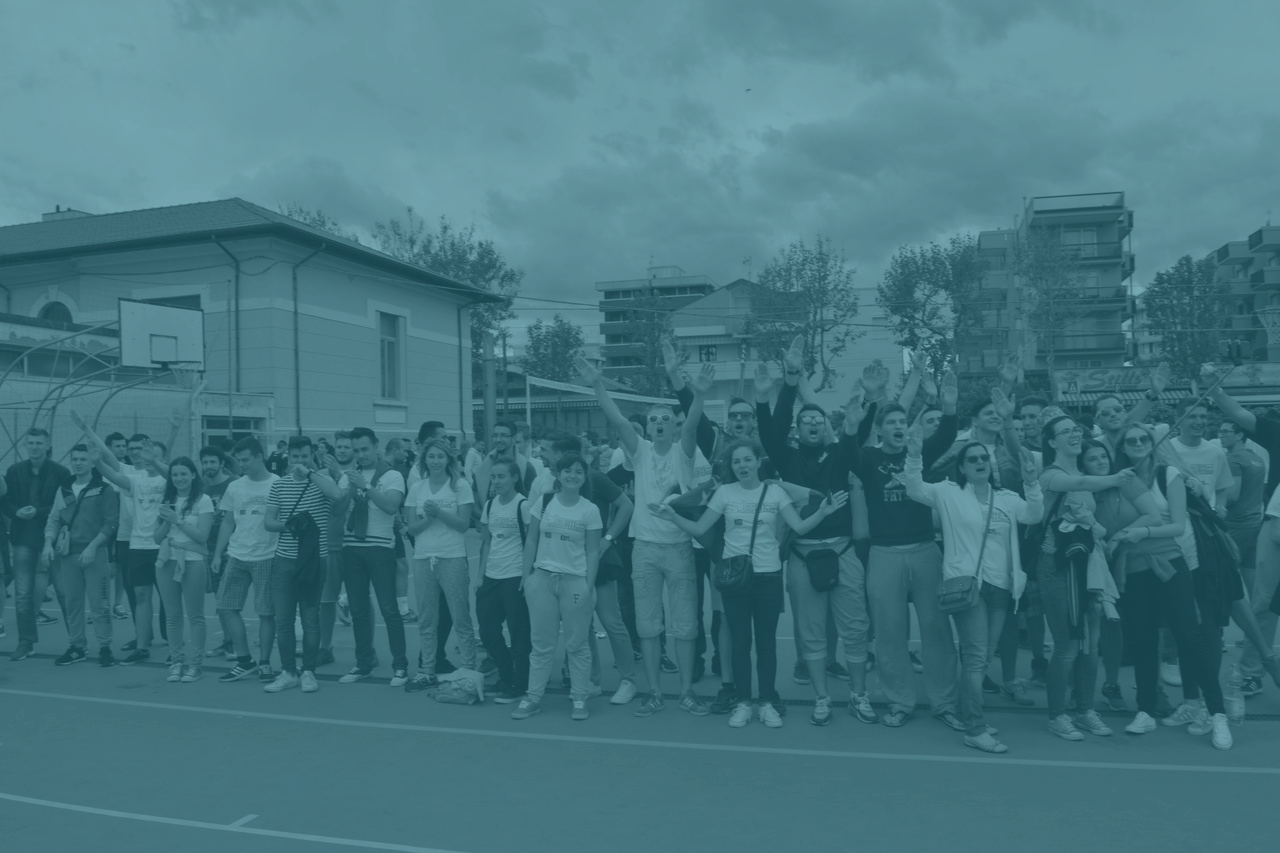
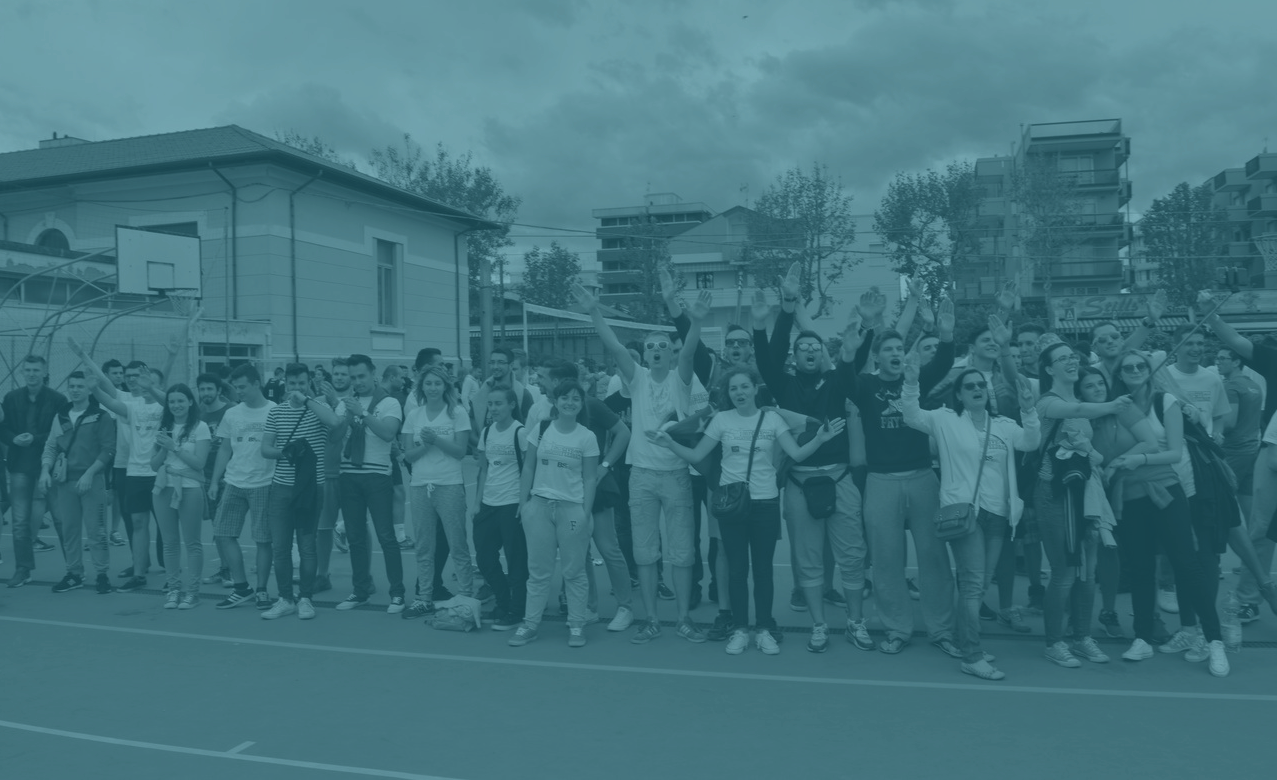
popravka vijesti

diff --git a/src/app/components/newspage/newspage.component.css b/src/app/components/newspage/newspage.component.css
@@ -8,11 +8,7 @@ div.vijesti-screen {
   padding: 99px;
   padding-top: 40px;
 }
-@media only screen and (max-width: 1367px){
-  div.vijesti-screen{
-    min-width: 0;
-  }
-}
+
 
 figure.vijest {
   font-family: 'Roboto', sans-serif;
@@ -132,9 +128,9 @@ figure.vijest:hover button {
 
 
 .picture{
-min-height: 495px;
-background-image: url('../../assets/images/vijesti.png');
 
+background-image: url('../../assets/images/vijesti.png');
+  min-height: 495px;
   background-repeat: no-repeat;
   background-size: cover;
   background-attachment: fixed;
@@ -143,7 +139,7 @@ background-image: url('../../assets/images/vijesti.png');
 }
 .info-overflow{
   transform: translateZ(0);
-    height: 495px;
+  height: 495px;
     overflow: hidden;
     position: absolute;
     width: 100%;
@@ -260,5 +256,24 @@ hr {
     margin-bottom: 40px;
     padding-left: 0px;
     display: inline-block;
+  }
+}
+@media only screen and (min-width: 1600px){
+  .picture{
+  min-height: 720px;
+  }
+  .info-overflow{
+    height: 720px;
+  }
+}
+@media only screen and (max-width: 1367px ){
+  div.vijesti-screen{
+    min-width: 0;
+  }
+  .picture{
+  min-height: 495px;
+  }
+  .info-overflow{
+    min-height: 495px;
   }
 }

diff --git a/src/app/components/sifipage/sifipage.component.css b/src/app/components/sifipage/sifipage.component.css
@@ -6,6 +6,7 @@
   background-attachment:fixed;
   background-position:center center;
   opacity: 0.9;
+  height: auto;
 }
 .info-overflow::before{
   position: absolute;

diff --git a/src/app/components/newspage/newspage.component.html b/src/app/components/newspage/newspage.component.html
@@ -1,3 +1,4 @@
+<meta name="viewport" content="width=device-width, initial-scale=1.0">
 <div class="picture">
   <div class="info-overflow">
 
